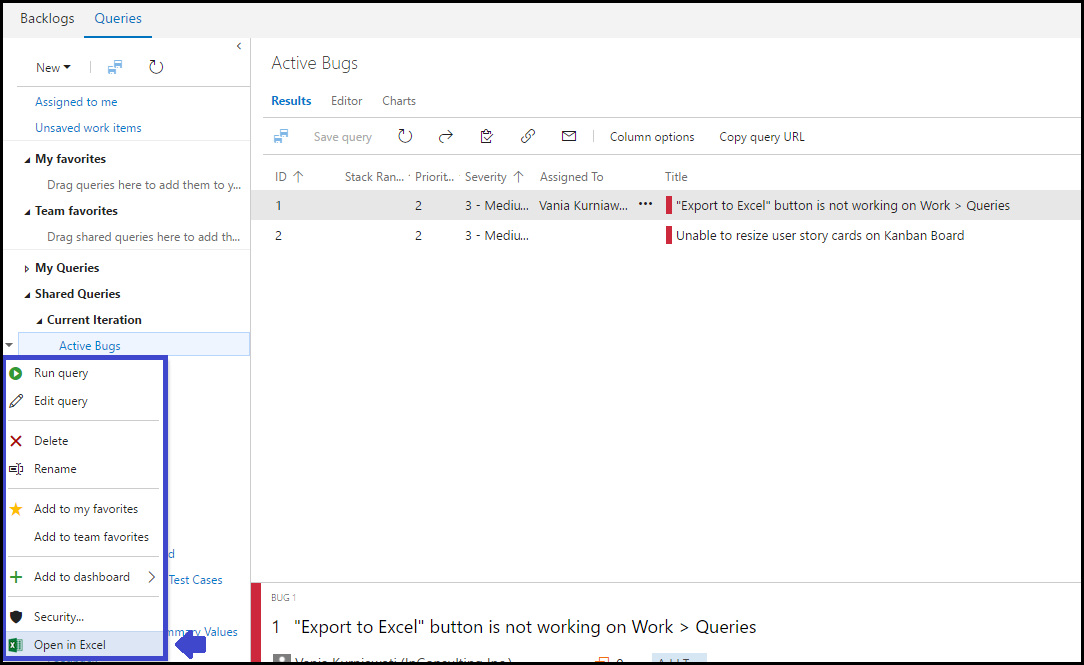
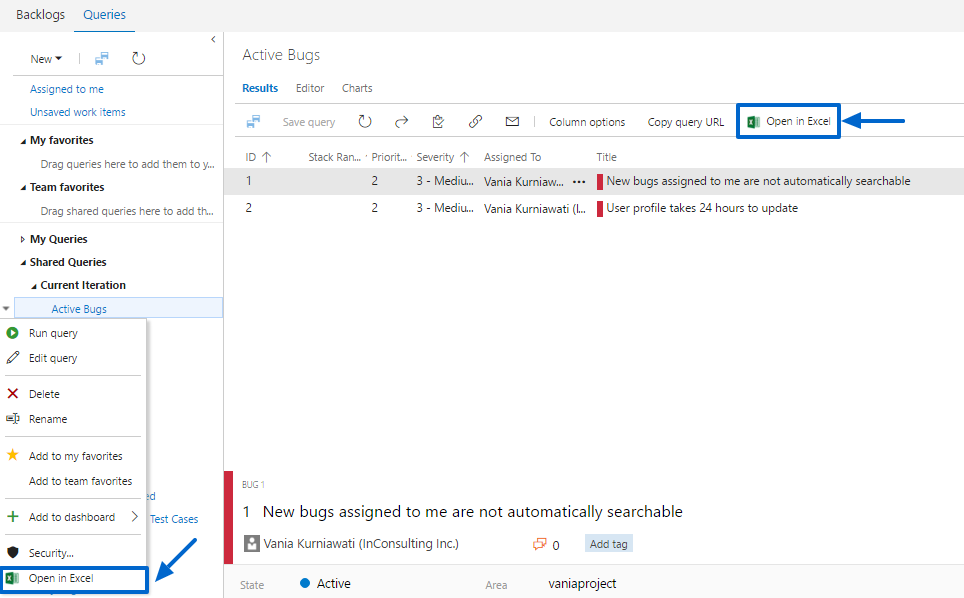
Added more unit tests, separated out logic
refactored code for unit testing

code refactor

working commit

refactored code

working commit

Updated screenshots

Working commit

separated out app logic and vss module loading

Changed region(s): [[0.0, 0.0, 1.0, 1.0], [0.3734, 0.3311, 0.4046, 0.3612], [0.249, 0.3311, 0.2801, 0.3612]]

diff --git a/scripts/app.ts b/scripts/app.ts
@@ -1,91 +1,131 @@
-import { TestHelper } from "./testHelper";
+export var staticQueryIds = { "A2108D31-086C-4FB0-AFDA-097E4CC46DF4": true, "B7A26A56-EA87-4C97-A504-3F028808BB9F": true, "202230E0-821E-401D-96D1-24A7202330D0": true, "53FB153F-C52C-42F1-90B6-CA17FC3561A8": true, "2CBF5136-1AE5-4948-B59A-36F526D9AC73": true, "08E20883-D56C-4461-88EB-CE77C0C7936D": true, "2650C586-0DE4-4156-BA0E-14BCFB664CCA": true};
 
-var openQueryAction =  {
-    getMenuItems: (context) => {
-    var qid = context["query"]["id"];
-    var uQid = qid.toUpperCase();
+export function checkForStaticQuery(qid: string) {
+    if (staticQueryIds[qid.toUpperCase()]) {
+        return true;
+    }
+    else {
+        return false;
+    }
+} 
 
-    var staticQueryIds = { "A2108D31-086C-4FB0-AFDA-097E4CC46DF4": true, "B7A26A56-EA87-4C97-A504-3F028808BB9F": true, "202230E0-821E-401D-96D1-24A7202330D0": true, "53FB153F-C52C-42F1-90B6-CA17FC3561A8": true, "2CBF5136-1AE5-4948-B59A-36F526D9AC73": true, "08E20883-D56C-4461-88EB-CE77C0C7936D": true, "2650C586-0DE4-4156-BA0E-14BCFB664CCA": true};
+export function createUri(action: string, cn: string, proj: string, qid?: string, wids?: string, columns?: string) {
+    var uri = "tfs://ExcelRequirements/"+action+"?cn="+cn+"&proj="+proj;
 
-        if (staticQueryIds[uQid]) {
+    if (action == "OpenItems") {
+        uri = uri+"&wid="+wids+"&columns="+columns;
+    } 
+    else {
+        uri = uri+"&qid="+qid;
+    }
+
+    if (uri.length > 2000) {
+        return null;
+    }
+    else {
+        return uri;
+    }
+}
+
+export interface IQueryObject {
+    id: string;
+    columns?: string;
+}
+
+export interface IQueryContributionContext {
+    query?: IQueryObject;
+    queryText: string;
+    workItemIds: string;
+    columns?: string;
+}
+
+export var openQueryAction =  {
+    getMenuItems: (context) =>  {
+        var qid = context["query"]["id"];
+        if (checkForStaticQuery(qid)) {
             return null;
         }
         else {
-        return [<IContributedMenuItem>{
-            title: "Requires latest Visual Studio",
-            text: "Open in Excel",
-            icon: "img/miniexcellogo.png",
-            action: (actionContext) => { 
-                
-                var qid = actionContext["query"]["id"];
-                if (qid) {
-                    let testHelper = new TestHelper();
-                    alert(testHelper.format(qid));
+            return [<IContributedMenuItem>{
+                title: "Requires latest Visual Studio",
+                text: "Open in Excel",
+                icon: "img/miniexcellogo.png",
+                action: (actionContext: IQueryContributionContext) => { 
+                    
+                    var qid = actionContext.query.id;
+
+                    var context = VSS.getWebContext();
+                    var collectionUri = context.collection.uri;
+                    var projectName = context.project.name;
+
+                    var uri = createUri("OpenQuery", collectionUri, projectName, qid);
+                    if (uri) {
+                        window.location.href = uri;
+                    }
+                    else {
+                        alert("The requested URL exceeds your browser's URL length limit.");
+                    }
                 }
-
-                var context = VSS.getWebContext();
-                var collectionUri = context["collection"]["uri"];
-                var projectName = context["project"]["name"];
-
-                var uri = "tfs://ExcelRequirements/OpenQuery?cn="+collectionUri+"&proj="+projectName+"&qid="+qid;
-                window.location.href= uri;
-            }
-        }];
+            }];
+        }
     }
-    }
-};
+}
 
-var openWorkItemsAction =  {
+export var openWorkItemsAction =  {
     getMenuItems: (context) => {
         return [<IContributedMenuItem>{
             title: "Requires latest Visual Studio",
             text: "Open in Excel",
             icon: "img/miniexcellogo.png",
-            action: (actionContext) => { 
-                var wids = actionContext.ids;
-                var columns = actionContext["columns"];
+            action: (actionContext: IQueryContributionContext) => { 
+                var wids = actionContext.workItemIds;
+                var columns = actionContext.columns;
 
                 var context = VSS.getWebContext();
-                var collectionUri = context["collection"]["uri"];
-                var projectName = context["project"]["name"];
+                var collectionUri = context.collection.uri;
+                var projectName = context.project.name;
 
-                var uri = "tfs://ExcelRequirements/OpenItems?cn="+collectionUri+"&proj="+projectName+"&wid="+wids+"&columns="+columns;
-                if (uri.length > 2000) {
-                    alert("You've selected too many fields and/or Work Items. Try exporting the Work Item Query instead.")
-                } 
+                var uri = createUri("OpenItems", collectionUri, projectName, null, wids, columns);
+                if (uri) {
+                    window.location.href = uri;
+                }
                 else {
-                    window.location.href= uri;
+                    alert("You might've selected too many fields and/or work items. Try exporting a query instead.");
                 }
-                
-            }
-        }];
-    }
-};
-
-var openQueryOnToolbarAction = {
-    getMenuItems: (context) => {
-        return [<IContributedMenuItem>{
-            text: "Open in Excel",
-            showText: true,
-            icon: "img/miniexcellogo.png",
-            action: (actionContext) => {
-                var webContext = VSS.getWebContext(); 
-                var qid = actionContext["query"]["id"];
-
-                //From web context, get collectionUri and projectName
-                var context = VSS.getWebContext();
-                var collectionUri = context["collection"]["uri"];
-                var projectName = context["project"]["name"];
-
-                var uri = "tfs://ExcelRequirements/OpenQuery?cn="+collectionUri+"&proj="+projectName+"&qid="+qid;
-
-                window.location.href= uri;
             }
         }];
     }
 }
 
-// Register context menu action provider
-VSS.register("openQueryAction", openQueryAction);
-VSS.register("openWorkItemsAction", openWorkItemsAction);
-VSS.register("openQueryOnToolbarAction", openQueryOnToolbarAction);
+export var openQueryOnToolbarAction = {
+    getMenuItems: (context) => {
+        return [<IContributedMenuItem>{
+            text: "Open in Excel",
+            showText: true,
+            icon: "img/miniexcellogo.png",
+            action: (actionContext: IQueryContributionContext) => {
+                var qid;
+                if (actionContext.query) {
+                    qid = actionContext.query.id;
+                }
+                else {
+                    qid = null; 
+                }
+                var context = VSS.getWebContext();
+                var collectionUri = context.collection.uri;
+                var projectName = context.project.name;
+
+                var uri = createUri("OpenQuery", collectionUri, projectName, qid);
+                if (uri) {
+                    window.location.href = uri;
+                }
+                else {
+                    alert("The requested URL exceeds your browser's URL length limit.");
+                }
+            }
+        }];
+    }
+}
+
+
+

diff --git a/test.js b/test.js
@@ -1,0 +1,45 @@
+'use strict';
+
+var chai = require('chai');
+var chaihttp = require('chai-http');
+var expect = chai.expect;
+chai.use(chaihttp);
+
+describe('app testing', function() {
+
+	//get project collection url > should be string, should start with tfs://ExcelRequirements (protocol handler)
+	//get project parameters > should be plain text with no spaces 
+	var token, token1, token2, token3, server;
+
+	before(function(done) {
+		require('../server')(true, function(srv) {
+			server = srv;
+			done();
+		});
+	});
+
+	it('should fail auth without token', function(done) {
+		chai.request(server)
+		.get('/api/user/username')
+		.end(function(err, res) {
+			expect(err).to.eql(null);
+			expect(res).to.have.status(403);
+			expect(res.body).to.eql({msg: 'could not authenticate - no token'});
+			done();
+		});
+	});
+
+	it('should fail auth with a bad token', function(done) {
+		chai.request(server)
+		.get('/api/user/username')
+		.set('eat', 'bad token')
+		.end(function(err, res) {
+			expect(err).to.eql(null);
+			expect(res).to.have.status(403);
+			expect(res.body).to.eql({msg: 'could not authenticate - decoding error'});
+			done();
+		});
+	});
+
+});
+

diff --git a/scripts/testHelper.tests.ts b/scripts/testHelper.tests.ts
@@ -1,13 +1,19 @@
 /// <reference path="../typings/index.d.ts" />
 
-import { expect } from 'chai';
+import { expect } from "chai";
+import { checkForStaticQuery } from "./app";
 
-import { TestHelper } from "./testHelper";
-
-describe("Guid check", () => {
-    it("should return query ID", () => {
-        let testHelper = new TestHelper();
-        
-        expect(testHelper.format("67f50c68-d311-4f45-8bd0-da7268f02435")).to.be.equal("67f50c68-d311-4f45-8bd0-da7268f02435");
+describe("Checks for valid input processing", () => {
+    describe("Guid check for static queries (false)", () => {
+        it("should return false for not a known static query guid", () => {
+            expect(checkForStaticQuery("meow-mix-meow-mix")).to.be.equal(false);
+        });
     });
-});
+
+    describe("Guid check for static queries", () => {
+        it("should return true for known static query guids", () => {
+            expect(checkForStaticQuery("2650C586-0DE4-4156-BA0E-14BCfb664cca")).to.be.equal(true);
+        });
+    });
+}); 
+

diff --git a/scripts/index.ts b/scripts/index.ts
@@ -1,0 +1,6 @@
+import * as App from "./app";
+
+// Register context menu action provider
+VSS.register("openQueryAction", App.openQueryAction);
+VSS.register("openWorkItemsAction", App.openWorkItemsAction);
+VSS.register("openQueryOnToolbarAction", App.openQueryOnToolbarAction);

diff --git a/action.html b/action.html
@@ -13,7 +13,7 @@
       usePlatformStyles: true,
       configureModuleLoader: true
     });
-    VSS.require(["scripts/app"], function () {
+    VSS.require(["scripts/index"], function () {
           // Loading succeeded
           VSS.notifyLoadSucceeded();
     }); 
